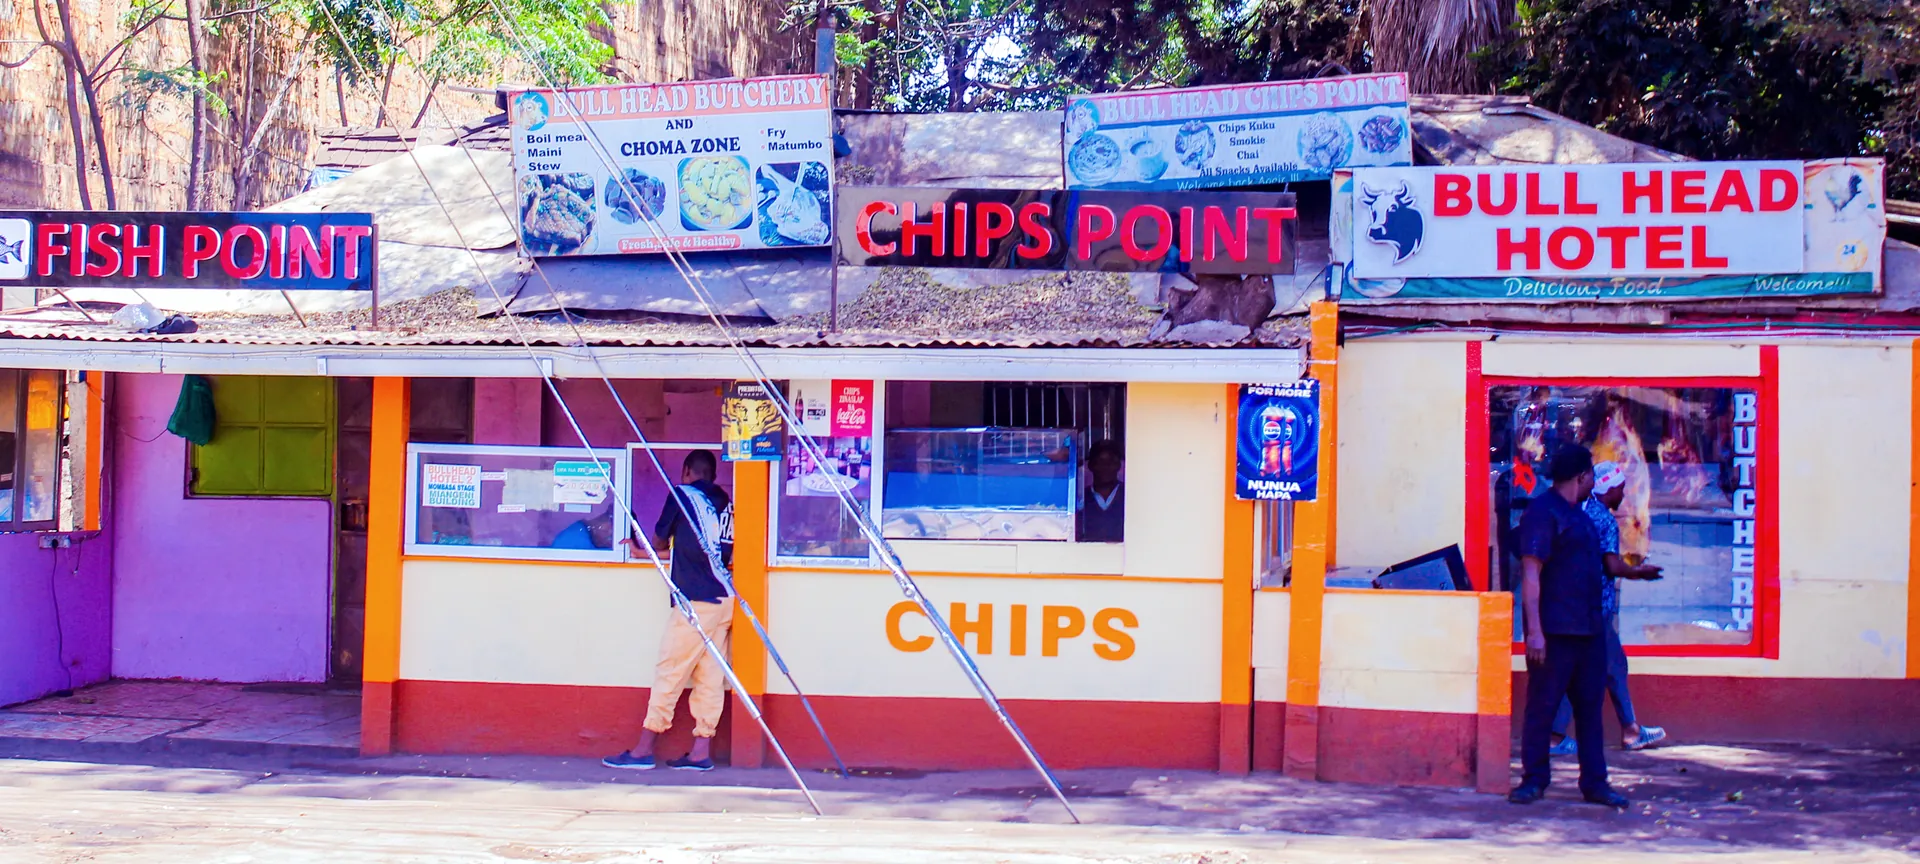
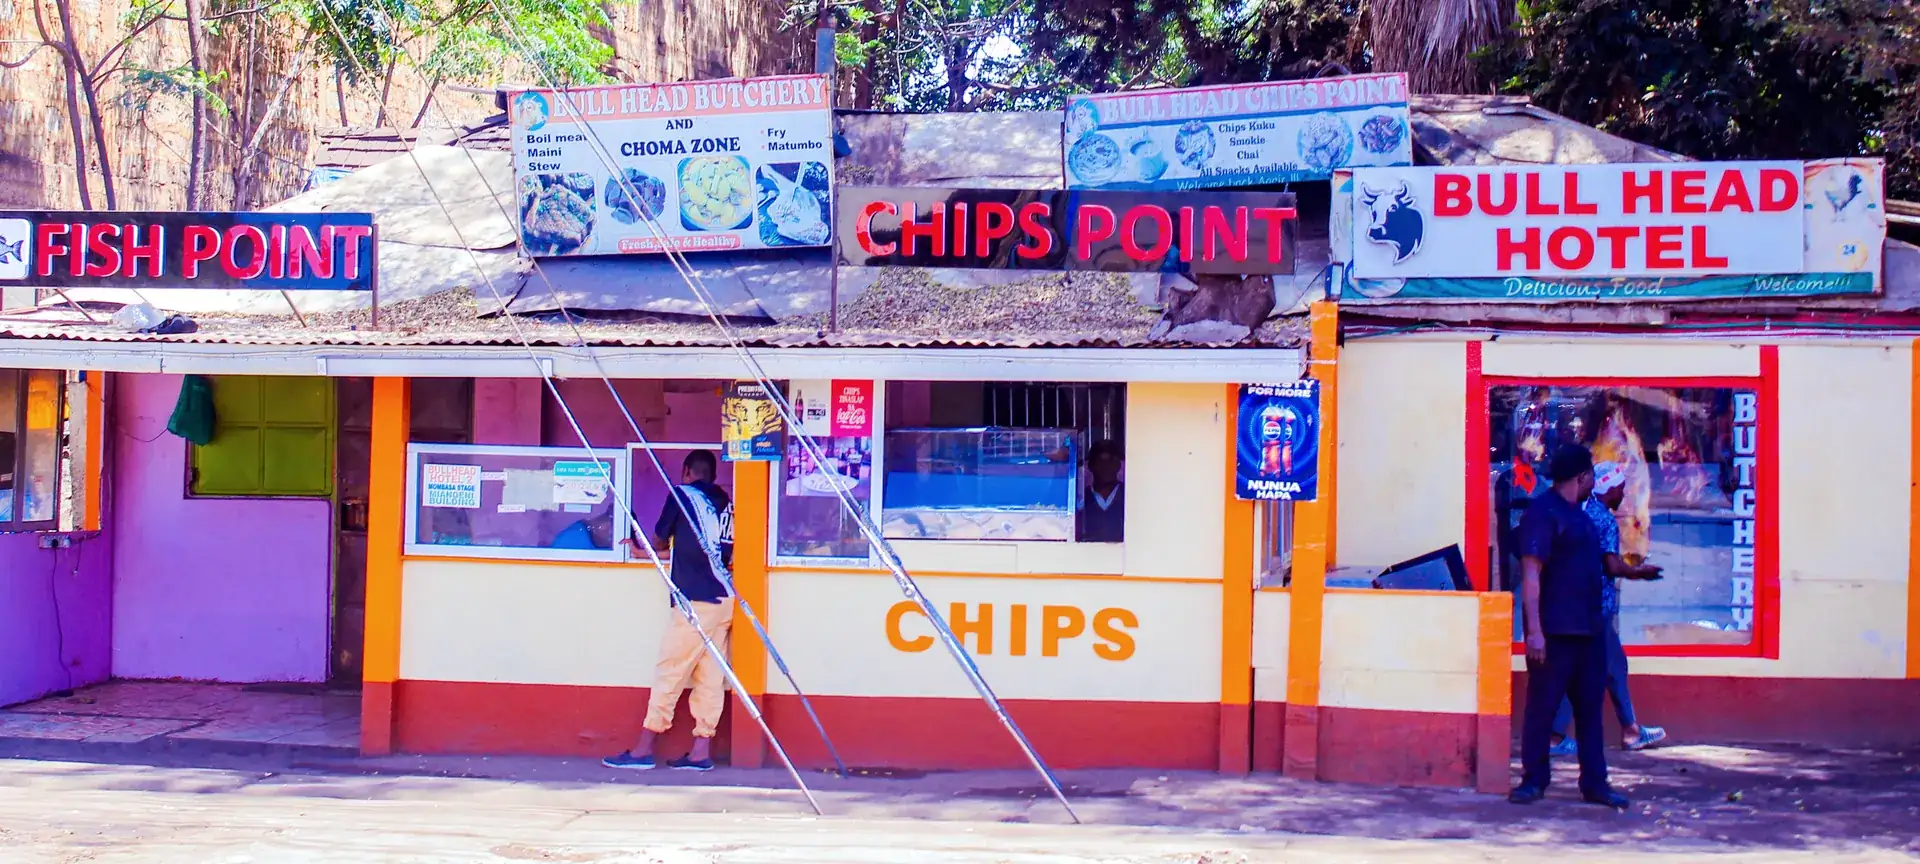
perf: non-blocking font CSS, hero preload + fetchpriority, recompress hero, 1000w srcset for lazy images

Changed region(s): [[0.25, 0.0, 0.3125, 0.0938]]

diff --git a/bullhead-site/index.html b/bullhead-site/index.html
@@ -22,7 +22,10 @@
 <meta name="twitter:image" content="https://branch1.bullheadhotels.co.ke/assets/img/og-image.jpg">
 <link rel="preconnect" href="https://fonts.googleapis.com">
 <link rel="preconnect" href="https://fonts.gstatic.com" crossorigin>
-<link href="https://fonts.googleapis.com/css2?family=Fraunces:ital,opsz,wght@0,9..144,400;0,9..144,500;0,9..144,600;0,9..144,700;1,9..144,500&family=Inter:wght@400;500;600;700&display=swap" rel="stylesheet">
+<script>function bhFontsReady(l){l.onload=null;l.media='all';setTimeout(function(){var d=document.fonts;(d&&d.ready?d.ready:Promise.resolve()).then(function(){try{window.ScrollTrigger&&ScrollTrigger.refresh();}catch(e){}window.dispatchEvent(new Event('resize'));});},100);}</script>
+<link rel="stylesheet" href="https://fonts.googleapis.com/css2?family=Fraunces:ital,opsz,wght@0,9..144,400;0,9..144,500;0,9..144,600;0,9..144,700;1,9..144,500&family=Inter:wght@400;500;600;700&display=swap" media="print" onload="bhFontsReady(this)">
+<noscript><link rel="stylesheet" href="https://fonts.googleapis.com/css2?family=Fraunces:ital,opsz,wght@0,9..144,400;0,9..144,500;0,9..144,600;0,9..144,700;1,9..144,500&family=Inter:wght@400;500;600;700&display=swap"></noscript>
+<link rel="preload" as="image" href="assets/img/hero-bullhead-one.webp" fetchpriority="high">
 <link rel="stylesheet" href="css/style.css?v=16">
 <link rel="stylesheet" href="css/relay.css?v=2">
 <link rel="stylesheet" href="css/bh-motion.css?v=1">
@@ -76,7 +79,7 @@
   <!-- HERO -->
   <section class="hero" id="hero">
     <div class="hero-media">
-      <img src="assets/img/hero-bullhead-one.webp" alt="Bull Head Butchery, Choma Zone, Chips Point and Bull Head Hotel storefront in Emali" id="heroImg" width="1920" height="864">
+      <img src="assets/img/hero-bullhead-one.webp" alt="Bull Head Butchery, Choma Zone, Chips Point and Bull Head Hotel storefront in Emali" id="heroImg" fetchpriority="high" decoding="async" width="1920" height="864">
       <div class="hero-scrim"></div>
       <div id="splineLayer" class="spline-hero-layer"></div>
     </div>
@@ -116,10 +119,10 @@
   <section class="story">
     <div class="story-media story-slides" role="group" aria-roledescription="carousel" aria-label="Bullhead One in pictures">
       <figure class="story-slide on"><img src="assets/img/story-1-frontage.webp" alt="Bullhead One on the Nairobi-Mombasa road in Emali" width="1400" height="1000"><figcaption data-sw="Bullhead One, kando ya barabara ya Nairobi–Mombasa, Emali">Bullhead One, on the Nairobi–Mombasa road in Emali</figcaption></figure>
-      <figure class="story-slide"><img loading="lazy" src="assets/img/story-2-choma.webp" alt="Nyama choma on the grill pan" width="1400" height="1000"><figcaption data-sw="Nyama choma ikiiva kwenye bamba la kuchomea">Nyama choma, cooking on the grill pan</figcaption></figure>
-      <figure class="story-slide"><img loading="lazy" src="assets/img/story-3-oven.webp" alt="A cook loading the charcoal oven" width="1400" height="1000"><figcaption data-sw="Jiko la mkaa, likipakiwa kwa mkono">The charcoal oven, loaded by hand</figcaption></figure>
-      <figure class="story-slide"><img loading="lazy" src="assets/img/story-4-dining.webp" alt="The dining room, counter and aquarium" width="1400" height="1000"><figcaption data-sw="Ukumbi wa kulia, wenye kaunta na hifadhi ya samaki">The dining room, with its counter and aquarium</figcaption></figure>
-      <figure class="story-slide"><img loading="lazy" src="assets/img/story-5-fryer.webp" alt="Chips at the fryer" width="1400" height="1000"><figcaption data-sw="Chipsi kwenye kikaango">Chips at the fryer</figcaption></figure>
+      <figure class="story-slide"><img loading="lazy" src="assets/img/story-2-choma.webp" srcset="assets/img/story-2-choma-1000.webp 1000w, assets/img/story-2-choma.webp 1400w" sizes="(max-width: 800px) 100vw, 1400px" alt="Nyama choma on the grill pan" width="1400" height="1000"><figcaption data-sw="Nyama choma ikiiva kwenye bamba la kuchomea">Nyama choma, cooking on the grill pan</figcaption></figure>
+      <figure class="story-slide"><img loading="lazy" src="assets/img/story-3-oven.webp" srcset="assets/img/story-3-oven-1000.webp 1000w, assets/img/story-3-oven.webp 1400w" sizes="(max-width: 800px) 100vw, 1400px" alt="A cook loading the charcoal oven" width="1400" height="1000"><figcaption data-sw="Jiko la mkaa, likipakiwa kwa mkono">The charcoal oven, loaded by hand</figcaption></figure>
+      <figure class="story-slide"><img loading="lazy" src="assets/img/story-4-dining.webp" srcset="assets/img/story-4-dining-1000.webp 1000w, assets/img/story-4-dining.webp 1400w" sizes="(max-width: 800px) 100vw, 1400px" alt="The dining room, counter and aquarium" width="1400" height="1000"><figcaption data-sw="Ukumbi wa kulia, wenye kaunta na hifadhi ya samaki">The dining room, with its counter and aquarium</figcaption></figure>
+      <figure class="story-slide"><img loading="lazy" src="assets/img/story-5-fryer.webp" srcset="assets/img/story-5-fryer-1000.webp 1000w, assets/img/story-5-fryer.webp 1400w" sizes="(max-width: 800px) 100vw, 1400px" alt="Chips at the fryer" width="1400" height="1000"><figcaption data-sw="Chipsi kwenye kikaango">Chips at the fryer</figcaption></figure>
     </div>
     <div class="story-copy">
       <h2 data-sw="Ilianza kama bucha moja katika mtaa huu.">It started as one butchery on this street.</h2>
@@ -134,7 +137,7 @@
     <p class="zones-sub" data-sw="Ingia kwa jambo moja, utaishia kuzunguka zote nne.">Walk in for one thing, you'll end up circling all four.</p>
     <div class="zones-grid">
       <div class="explore-card">
-        <img loading="lazy" src="assets/img/zone-butchery.webp" alt="A cook tending the charcoal oven outside the Bull Head Butchery window" width="1200" height="800">
+        <img loading="lazy" src="assets/img/zone-butchery.webp" srcset="assets/img/zone-butchery-1000.webp 1000w, assets/img/zone-butchery.webp 1200w" sizes="(max-width: 800px) 100vw, 1200px" alt="A cook tending the charcoal oven outside the Bull Head Butchery window" width="1200" height="800">
         <div class="explore-card-scrim"></div>
         <div class="explore-card-label">
           <span class="zone-no" aria-hidden="true">01</span>
@@ -144,7 +147,7 @@
         </div>
       </div>
       <div class="explore-card">
-        <img loading="lazy" src="assets/img/zone-chips.webp" alt="Chips Point counter with fresh chicken in the warmer" width="1200" height="800">
+        <img loading="lazy" src="assets/img/zone-chips.webp" srcset="assets/img/zone-chips-1000.webp 1000w, assets/img/zone-chips.webp 1200w" sizes="(max-width: 800px) 100vw, 1200px" alt="Chips Point counter with fresh chicken in the warmer" width="1200" height="800">
         <div class="explore-card-scrim"></div>
         <div class="explore-card-label">
           <span class="zone-no" aria-hidden="true">02</span>
@@ -154,7 +157,7 @@
         </div>
       </div>
       <div class="explore-card">
-        <img loading="lazy" src="assets/img/zone-fish.webp" alt="Fish Point counter and kitchen team" width="1200" height="800">
+        <img loading="lazy" src="assets/img/zone-fish.webp" srcset="assets/img/zone-fish-1000.webp 1000w, assets/img/zone-fish.webp 1200w" sizes="(max-width: 800px) 100vw, 1200px" alt="Fish Point counter and kitchen team" width="1200" height="800">
         <div class="explore-card-scrim"></div>
         <div class="explore-card-label">
           <span class="zone-no" aria-hidden="true">03</span>
@@ -164,7 +167,7 @@
         </div>
       </div>
       <div class="explore-card">
-        <img loading="lazy" src="assets/img/zone-hotel.webp" alt="Bull Head Hotel dining room with the counter and aquarium" width="1200" height="800">
+        <img loading="lazy" src="assets/img/zone-hotel.webp" srcset="assets/img/zone-hotel-1000.webp 1000w, assets/img/zone-hotel.webp 1200w" sizes="(max-width: 800px) 100vw, 1200px" alt="Bull Head Hotel dining room with the counter and aquarium" width="1200" height="800">
         <div class="explore-card-scrim"></div>
         <div class="explore-card-label">
           <span class="zone-no" aria-hidden="true">04</span>
@@ -186,7 +189,7 @@
           <p data-sw="Simama kwa kimoja. Tembea hadi kingine." >Stop at one. Walk to the next.</p>
         </div>
         <div class="bh-walk__frame">
-          <img class="bh-walk__img" loading="lazy" decoding="async" src="assets/img/walk-strip.webp" alt="The Bullhead One frontage: Fish Point, Bull Head Butchery and Choma Zone, Chips Point and Bull Head Hotel, side by side" width="2400" height="993">
+          <img class="bh-walk__img" loading="lazy" decoding="async" src="assets/img/walk-strip.webp" srcset="assets/img/walk-strip-1000.webp 1000w, assets/img/walk-strip.webp 2400w" sizes="(max-width: 800px) 100vw, 2400px" alt="The Bullhead One frontage: Fish Point, Bull Head Butchery and Choma Zone, Chips Point and Bull Head Hotel, side by side" width="2400" height="993">
         </div>
         <div class="bh-walk__cards">
           <article class="bh-walk__stop" data-x="0.10">
@@ -255,10 +258,10 @@
     </div>
     <div class="bh-car__track" tabindex="0" role="group" aria-label="Photos, swipe or use the arrow keys">
       <figure class="bh-car__slide"><img src="assets/img/tables-1-service.webp" alt="A server bringing food to a table at Bull Head Hotel" width="1200" height="900"><figcaption data-sw="Huduma mezani">Service at Bull Head Hotel</figcaption></figure>
-      <figure class="bh-car__slide"><img loading="lazy" decoding="async" src="assets/img/tables-2-guests.webp" alt="Three guests sharing a table" width="1200" height="900"><figcaption data-sw="Wageni mezani">Guests at the tables</figcaption></figure>
-      <figure class="bh-car__slide"><img loading="lazy" decoding="async" src="assets/img/tables-3-dining.webp" alt="The dining room with orange chairs and staff in hairnets" width="1200" height="900"><figcaption data-sw="Chumba cha kulia">The dining room</figcaption></figure>
-      <figure class="bh-car__slide"><img loading="lazy" decoding="async" src="assets/img/tables-4-oven.webp" alt="A cook turning meat in the charcoal oven" width="1200" height="900"><figcaption data-sw="Jiko la makaa">Turning the meat in the charcoal oven</figcaption></figure>
-      <figure class="bh-car__slide"><img loading="lazy" decoding="async" src="assets/img/tables-5-water.webp" alt="Three bottles of Bull Head Hotel drinking water" width="1200" height="900"><figcaption data-sw="Maji ya kunywa">Bull Head Hotel drinking water</figcaption></figure>
+      <figure class="bh-car__slide"><img loading="lazy" decoding="async" src="assets/img/tables-2-guests.webp" srcset="assets/img/tables-2-guests-1000.webp 1000w, assets/img/tables-2-guests.webp 1200w" sizes="(max-width: 800px) 100vw, 1200px" alt="Three guests sharing a table" width="1200" height="900"><figcaption data-sw="Wageni mezani">Guests at the tables</figcaption></figure>
+      <figure class="bh-car__slide"><img loading="lazy" decoding="async" src="assets/img/tables-3-dining.webp" srcset="assets/img/tables-3-dining-1000.webp 1000w, assets/img/tables-3-dining.webp 1200w" sizes="(max-width: 800px) 100vw, 1200px" alt="The dining room with orange chairs and staff in hairnets" width="1200" height="900"><figcaption data-sw="Chumba cha kulia">The dining room</figcaption></figure>
+      <figure class="bh-car__slide"><img loading="lazy" decoding="async" src="assets/img/tables-4-oven.webp" srcset="assets/img/tables-4-oven-1000.webp 1000w, assets/img/tables-4-oven.webp 1200w" sizes="(max-width: 800px) 100vw, 1200px" alt="A cook turning meat in the charcoal oven" width="1200" height="900"><figcaption data-sw="Jiko la makaa">Turning the meat in the charcoal oven</figcaption></figure>
+      <figure class="bh-car__slide"><img loading="lazy" decoding="async" src="assets/img/tables-5-water.webp" srcset="assets/img/tables-5-water-1000.webp 1000w, assets/img/tables-5-water.webp 1200w" sizes="(max-width: 800px) 100vw, 1200px" alt="Three bottles of Bull Head Hotel drinking water" width="1200" height="900"><figcaption data-sw="Maji ya kunywa">Bull Head Hotel drinking water</figcaption></figure>
     </div>
     <div class="bh-car__ui">
       <div class="bh-car__dots"></div>
@@ -270,7 +273,7 @@
     <h2 data-sw="Angalia Karibu">Look around</h2>
     <div class="explore-grid">
       <a href="/menu" class="explore-card">
-        <img loading="lazy" src="assets/img/menu-grill.webp" alt="Nyama choma on the grill pan" width="1600" height="720">
+        <img loading="lazy" src="assets/img/menu-grill.webp" srcset="assets/img/menu-grill-1000.webp 1000w, assets/img/menu-grill.webp 1600w" sizes="(max-width: 800px) 100vw, 1600px" alt="Nyama choma on the grill pan" width="1600" height="720">
         <div class="explore-card-scrim"></div>
         <div class="explore-card-label">
           <h3 data-sw="Menyu">The Menu</h3>
@@ -278,7 +281,7 @@
         </div>
       </a>
       <a href="/visit" class="explore-card">
-        <img loading="lazy" src="assets/img/visit-card.webp" alt="Bullhead One storefront" width="1200" height="900">
+        <img loading="lazy" src="assets/img/visit-card.webp" srcset="assets/img/visit-card-1000.webp 1000w, assets/img/visit-card.webp 1200w" sizes="(max-width: 800px) 100vw, 1200px" alt="Bullhead One storefront" width="1200" height="900">
         <div class="explore-card-scrim"></div>
         <div class="explore-card-label">
           <h3 data-sw="Tembelea">Visit</h3>

diff --git a/bullhead-site/gallery.html b/bullhead-site/gallery.html
@@ -19,7 +19,9 @@
 <link rel="manifest" href="/site.webmanifest">
 <link rel="preconnect" href="https://fonts.googleapis.com">
 <link rel="preconnect" href="https://fonts.gstatic.com" crossorigin>
-<link href="https://fonts.googleapis.com/css2?family=Fraunces:ital,opsz,wght@0,9..144,400;0,9..144,500;0,9..144,600;0,9..144,700;1,9..144,500&family=Inter:wght@400;500;600;700&display=swap" rel="stylesheet">
+<script>function bhFontsReady(l){l.onload=null;l.media='all';setTimeout(function(){var d=document.fonts;(d&&d.ready?d.ready:Promise.resolve()).then(function(){try{window.ScrollTrigger&&ScrollTrigger.refresh();}catch(e){}window.dispatchEvent(new Event('resize'));});},100);}</script>
+<link rel="stylesheet" href="https://fonts.googleapis.com/css2?family=Fraunces:ital,opsz,wght@0,9..144,400;0,9..144,500;0,9..144,600;0,9..144,700;1,9..144,500&family=Inter:wght@400;500;600;700&display=swap" media="print" onload="bhFontsReady(this)">
+<noscript><link rel="stylesheet" href="https://fonts.googleapis.com/css2?family=Fraunces:ital,opsz,wght@0,9..144,400;0,9..144,500;0,9..144,600;0,9..144,700;1,9..144,500&family=Inter:wght@400;500;600;700&display=swap"></noscript>
 <link rel="stylesheet" href="/css/style.css?v=15">
 <style>
   .gal { max-width: 1100px; margin: 0 auto; padding: 130px 20px 70px; }

diff --git a/bullhead-site/contact.html b/bullhead-site/contact.html
@@ -21,7 +21,9 @@
 <meta name="twitter:image" content="https://branch1.bullheadhotels.co.ke/assets/img/og-image.jpg">
 <link rel="preconnect" href="https://fonts.googleapis.com">
 <link rel="preconnect" href="https://fonts.gstatic.com" crossorigin>
-<link href="https://fonts.googleapis.com/css2?family=Fraunces:ital,opsz,wght@0,9..144,400;0,9..144,500;0,9..144,600;0,9..144,700;1,9..144,500&family=Inter:wght@400;500;600;700&display=swap" rel="stylesheet">
+<script>function bhFontsReady(l){l.onload=null;l.media='all';setTimeout(function(){var d=document.fonts;(d&&d.ready?d.ready:Promise.resolve()).then(function(){try{window.ScrollTrigger&&ScrollTrigger.refresh();}catch(e){}window.dispatchEvent(new Event('resize'));});},100);}</script>
+<link rel="stylesheet" href="https://fonts.googleapis.com/css2?family=Fraunces:ital,opsz,wght@0,9..144,400;0,9..144,500;0,9..144,600;0,9..144,700;1,9..144,500&family=Inter:wght@400;500;600;700&display=swap" media="print" onload="bhFontsReady(this)">
+<noscript><link rel="stylesheet" href="https://fonts.googleapis.com/css2?family=Fraunces:ital,opsz,wght@0,9..144,400;0,9..144,500;0,9..144,600;0,9..144,700;1,9..144,500&family=Inter:wght@400;500;600;700&display=swap"></noscript>
 <link rel="stylesheet" href="css/style.css?v=15">
 </head>
 <body>

diff --git a/bullhead-site/menu.html b/bullhead-site/menu.html
@@ -21,7 +21,9 @@
 <meta name="twitter:image" content="https://branch1.bullheadhotels.co.ke/assets/img/og-image.jpg">
 <link rel="preconnect" href="https://fonts.googleapis.com">
 <link rel="preconnect" href="https://fonts.gstatic.com" crossorigin>
-<link href="https://fonts.googleapis.com/css2?family=Fraunces:ital,opsz,wght@0,9..144,400;0,9..144,500;0,9..144,600;0,9..144,700;1,9..144,500&family=Inter:wght@400;500;600;700&display=swap" rel="stylesheet">
+<script>function bhFontsReady(l){l.onload=null;l.media='all';setTimeout(function(){var d=document.fonts;(d&&d.ready?d.ready:Promise.resolve()).then(function(){try{window.ScrollTrigger&&ScrollTrigger.refresh();}catch(e){}window.dispatchEvent(new Event('resize'));});},100);}</script>
+<link rel="stylesheet" href="https://fonts.googleapis.com/css2?family=Fraunces:ital,opsz,wght@0,9..144,400;0,9..144,500;0,9..144,600;0,9..144,700;1,9..144,500&family=Inter:wght@400;500;600;700&display=swap" media="print" onload="bhFontsReady(this)">
+<noscript><link rel="stylesheet" href="https://fonts.googleapis.com/css2?family=Fraunces:ital,opsz,wght@0,9..144,400;0,9..144,500;0,9..144,600;0,9..144,700;1,9..144,500&family=Inter:wght@400;500;600;700&display=swap"></noscript>
 <link rel="stylesheet" href="css/style.css?v=16">
 </head>
 <body>

diff --git a/bullhead-site/visit.html b/bullhead-site/visit.html
@@ -54,7 +54,9 @@
 </script>
 <link rel="preconnect" href="https://fonts.googleapis.com">
 <link rel="preconnect" href="https://fonts.gstatic.com" crossorigin>
-<link href="https://fonts.googleapis.com/css2?family=Fraunces:ital,opsz,wght@0,9..144,400;0,9..144,500;0,9..144,600;0,9..144,700;1,9..144,500&family=Inter:wght@400;500;600;700&display=swap" rel="stylesheet">
+<script>function bhFontsReady(l){l.onload=null;l.media='all';setTimeout(function(){var d=document.fonts;(d&&d.ready?d.ready:Promise.resolve()).then(function(){try{window.ScrollTrigger&&ScrollTrigger.refresh();}catch(e){}window.dispatchEvent(new Event('resize'));});},100);}</script>
+<link rel="stylesheet" href="https://fonts.googleapis.com/css2?family=Fraunces:ital,opsz,wght@0,9..144,400;0,9..144,500;0,9..144,600;0,9..144,700;1,9..144,500&family=Inter:wght@400;500;600;700&display=swap" media="print" onload="bhFontsReady(this)">
+<noscript><link rel="stylesheet" href="https://fonts.googleapis.com/css2?family=Fraunces:ital,opsz,wght@0,9..144,400;0,9..144,500;0,9..144,600;0,9..144,700;1,9..144,500&family=Inter:wght@400;500;600;700&display=swap"></noscript>
 <link rel="stylesheet" href="css/style.css?v=15">
 </head>
 <body>
